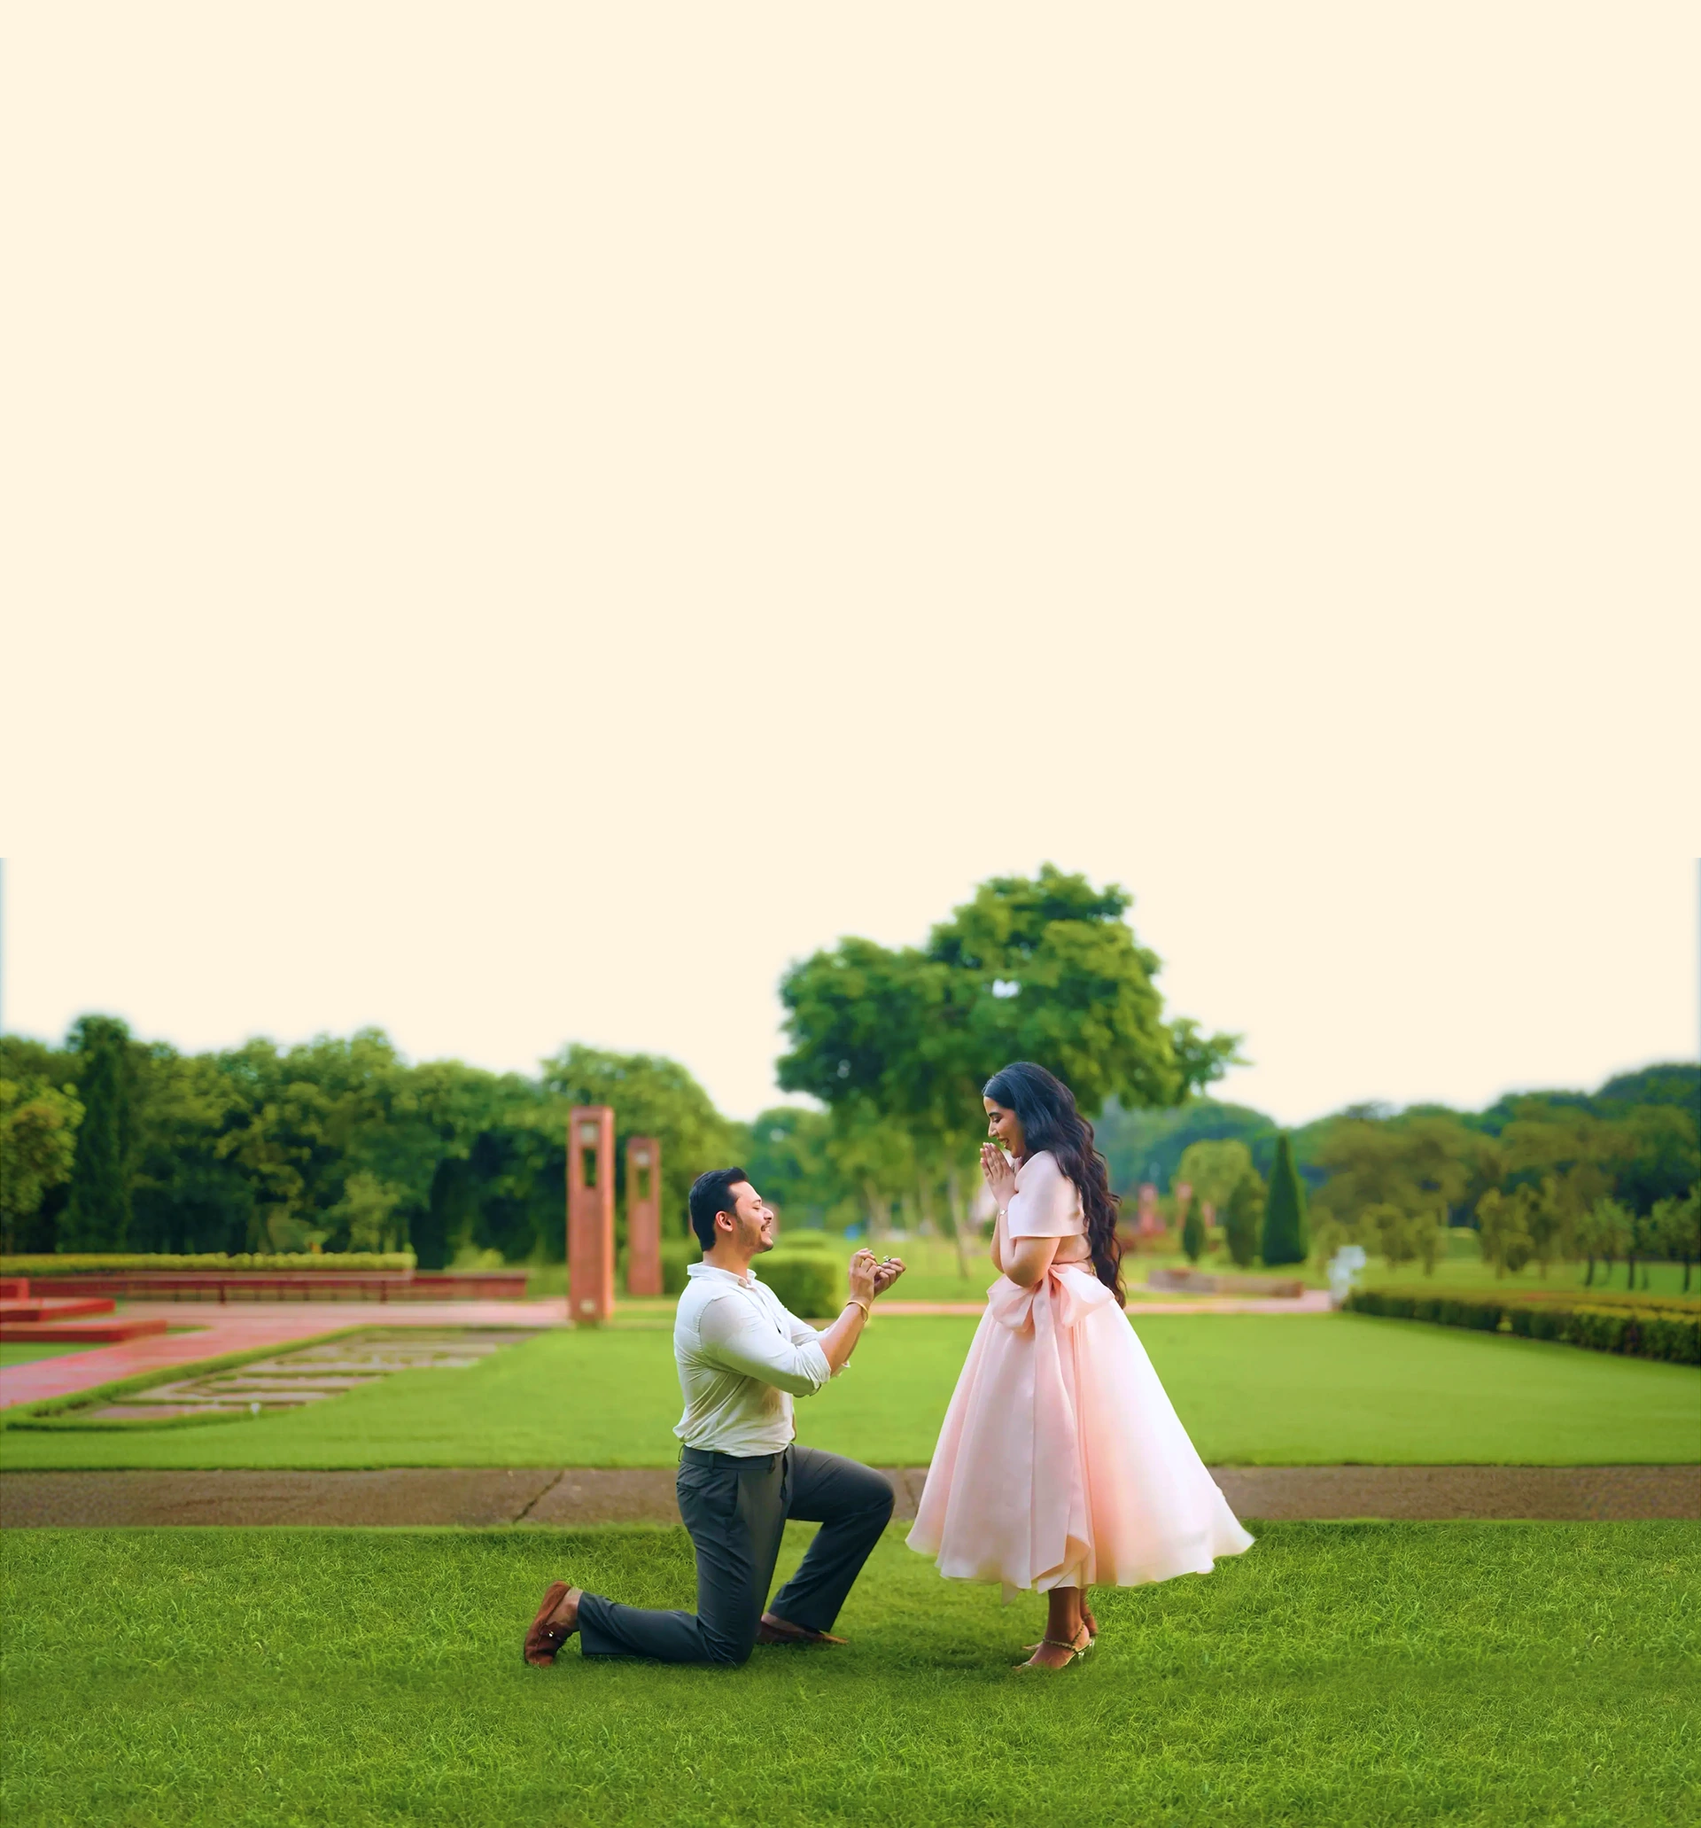
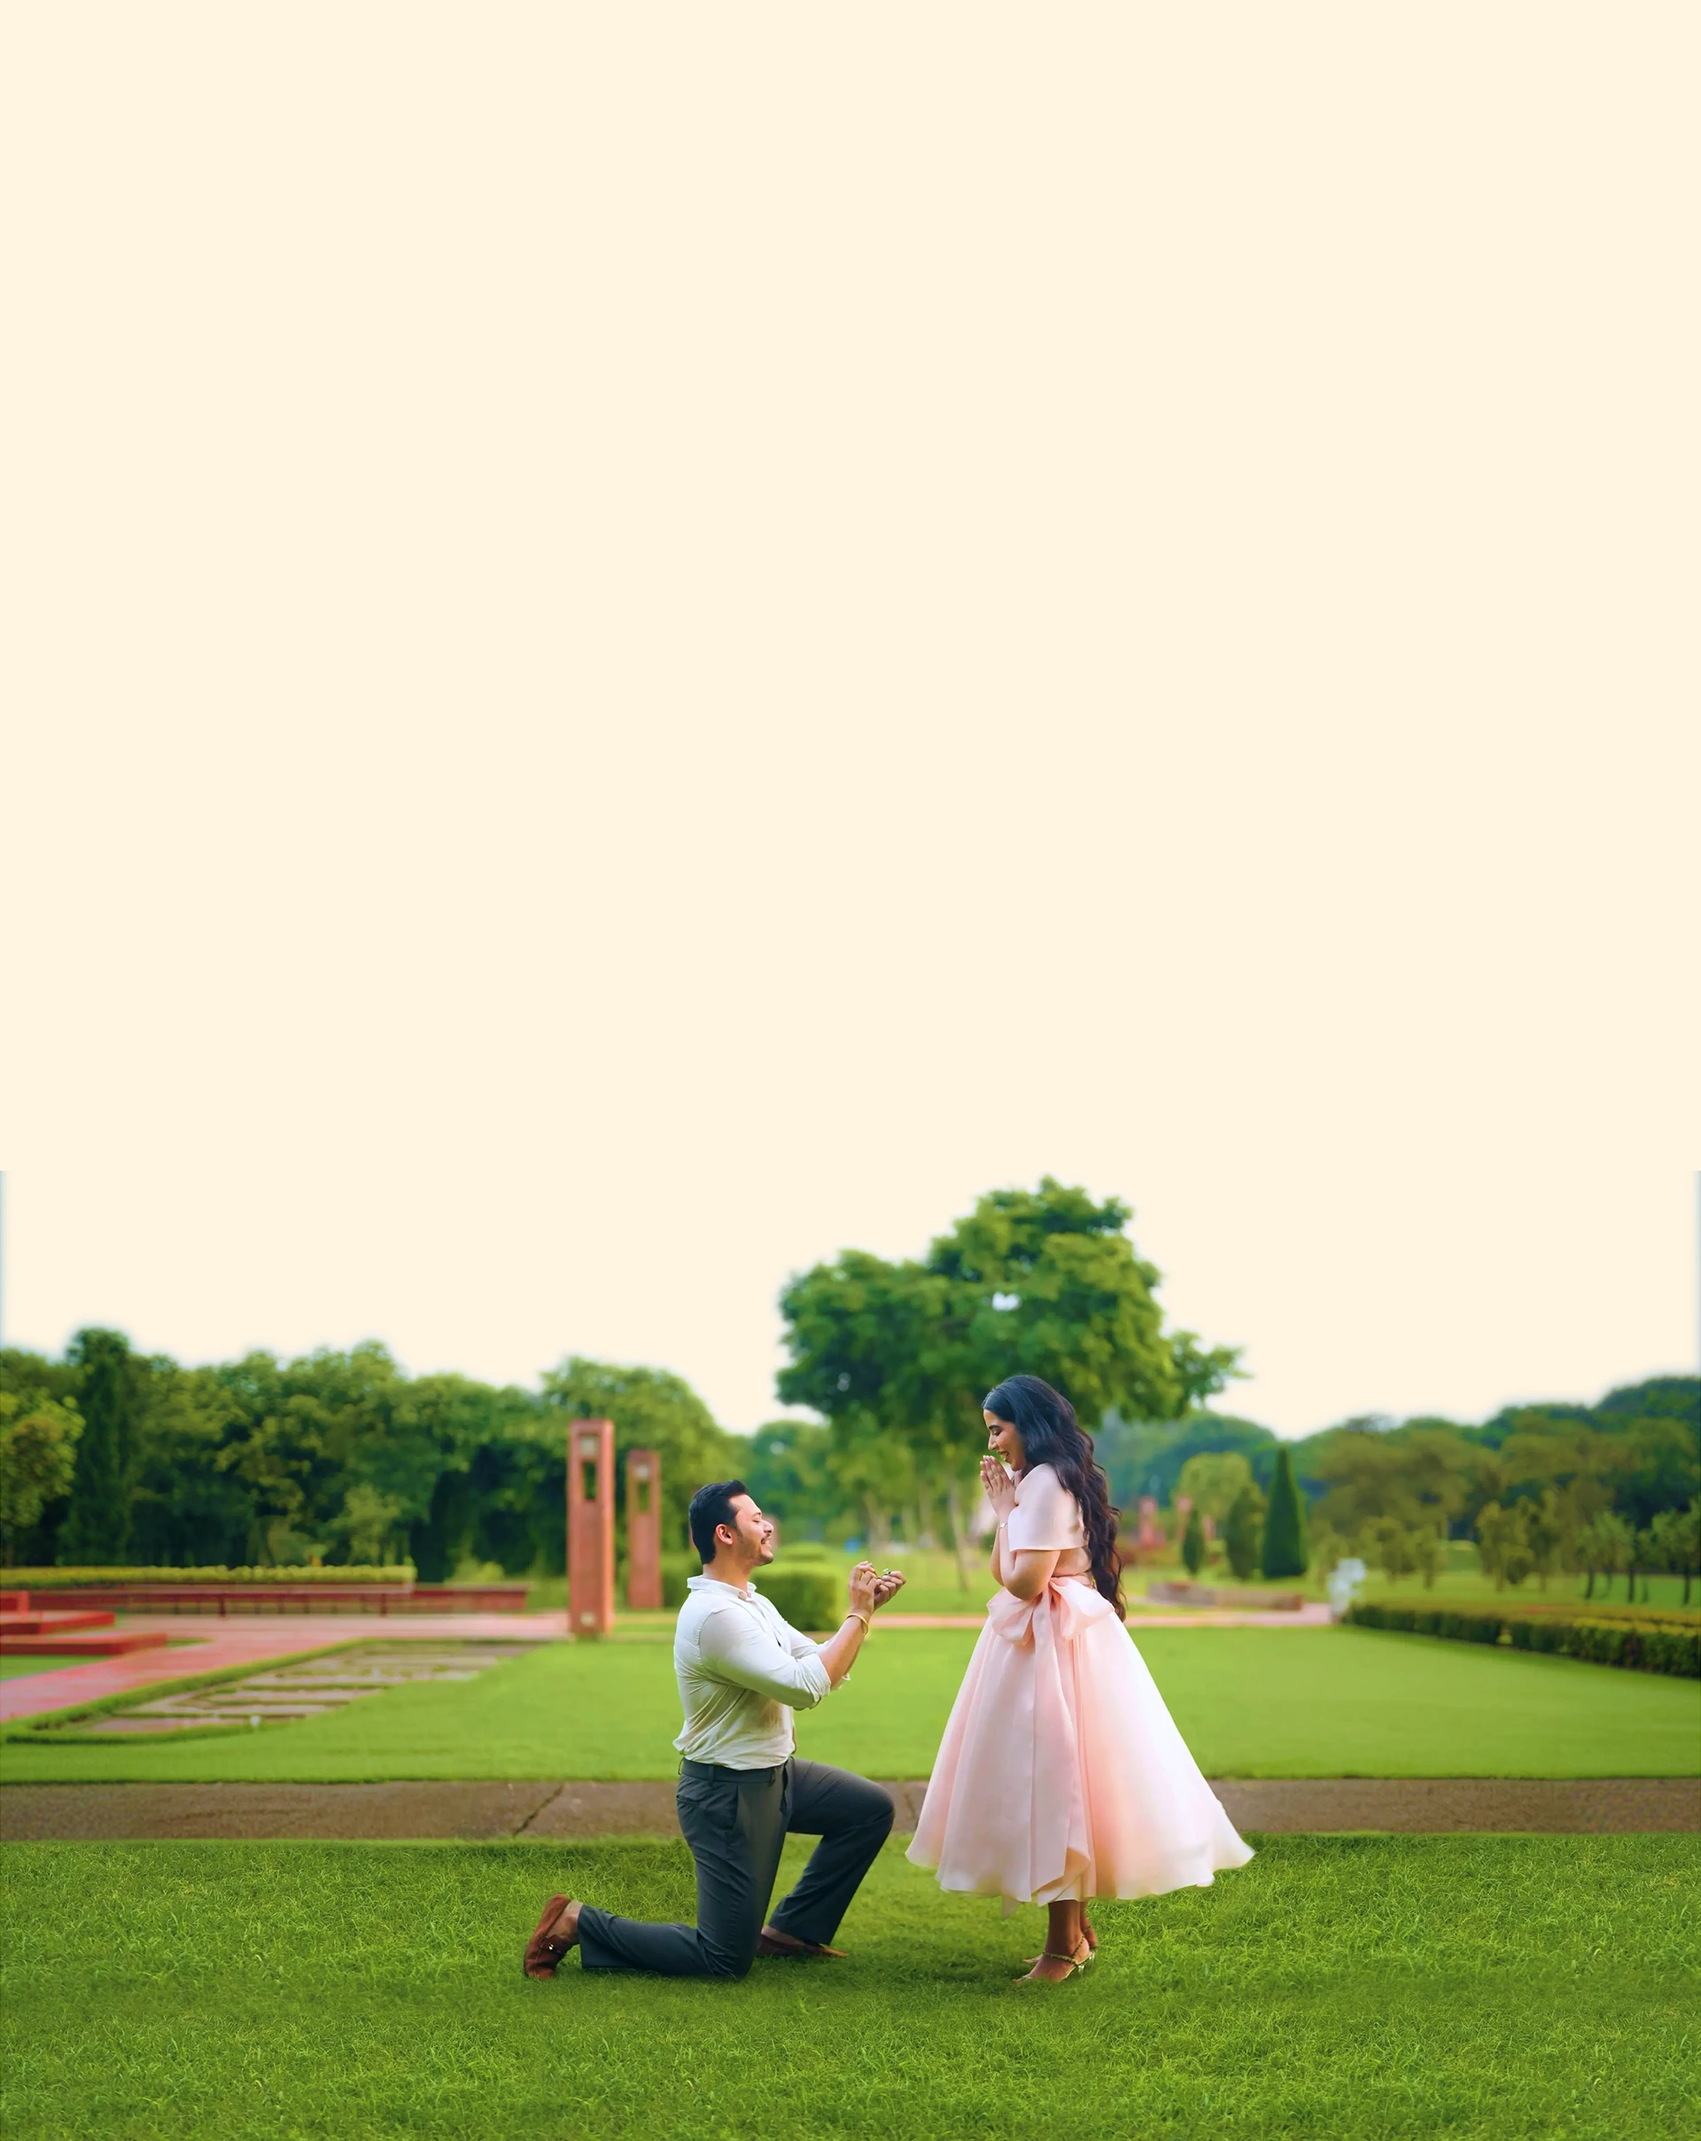
update image

diff --git a/app/components/CoupleUs.jsx b/app/components/CoupleUs.jsx
@@ -6,7 +6,7 @@ export default function CoupleUs() {
     return (
 
             <div className="bg-[url('/assets/res_bg_two.webp')] md:bg-[url('/assets/bg_two.webp')] bg-cover bg-no-repeat">
-                <div className="flex flex-col items-center h-118 md:h-176 lg:h-318 3xl:h-403">
+                <div className="flex flex-col items-center h-120 md:h-176 lg:h-318 3xl:h-403">
                   <h2 className="font-playfair-display font-medium italic text-2xl md:text-4xl lg:text-7xl text-center pt-10 md:pt-6 lg:pt-14 3xl:pt-24 text-[#B35800]">
                     With <br /> Love From Us
                   </h2>
